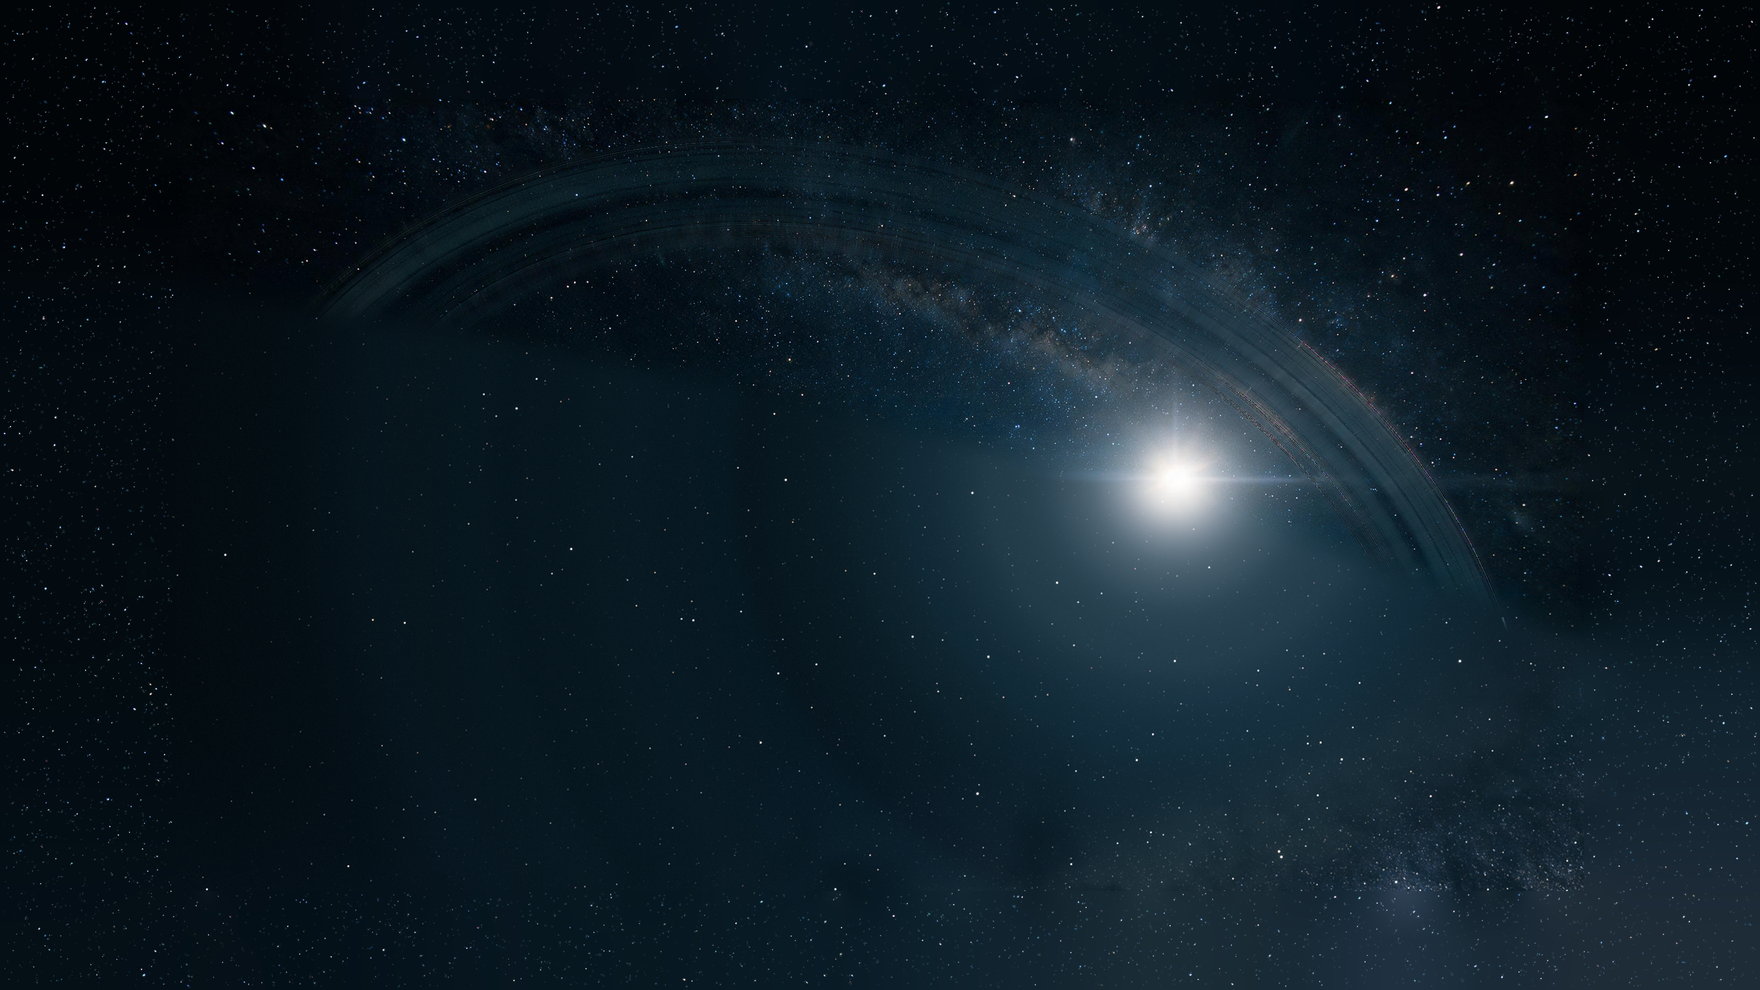
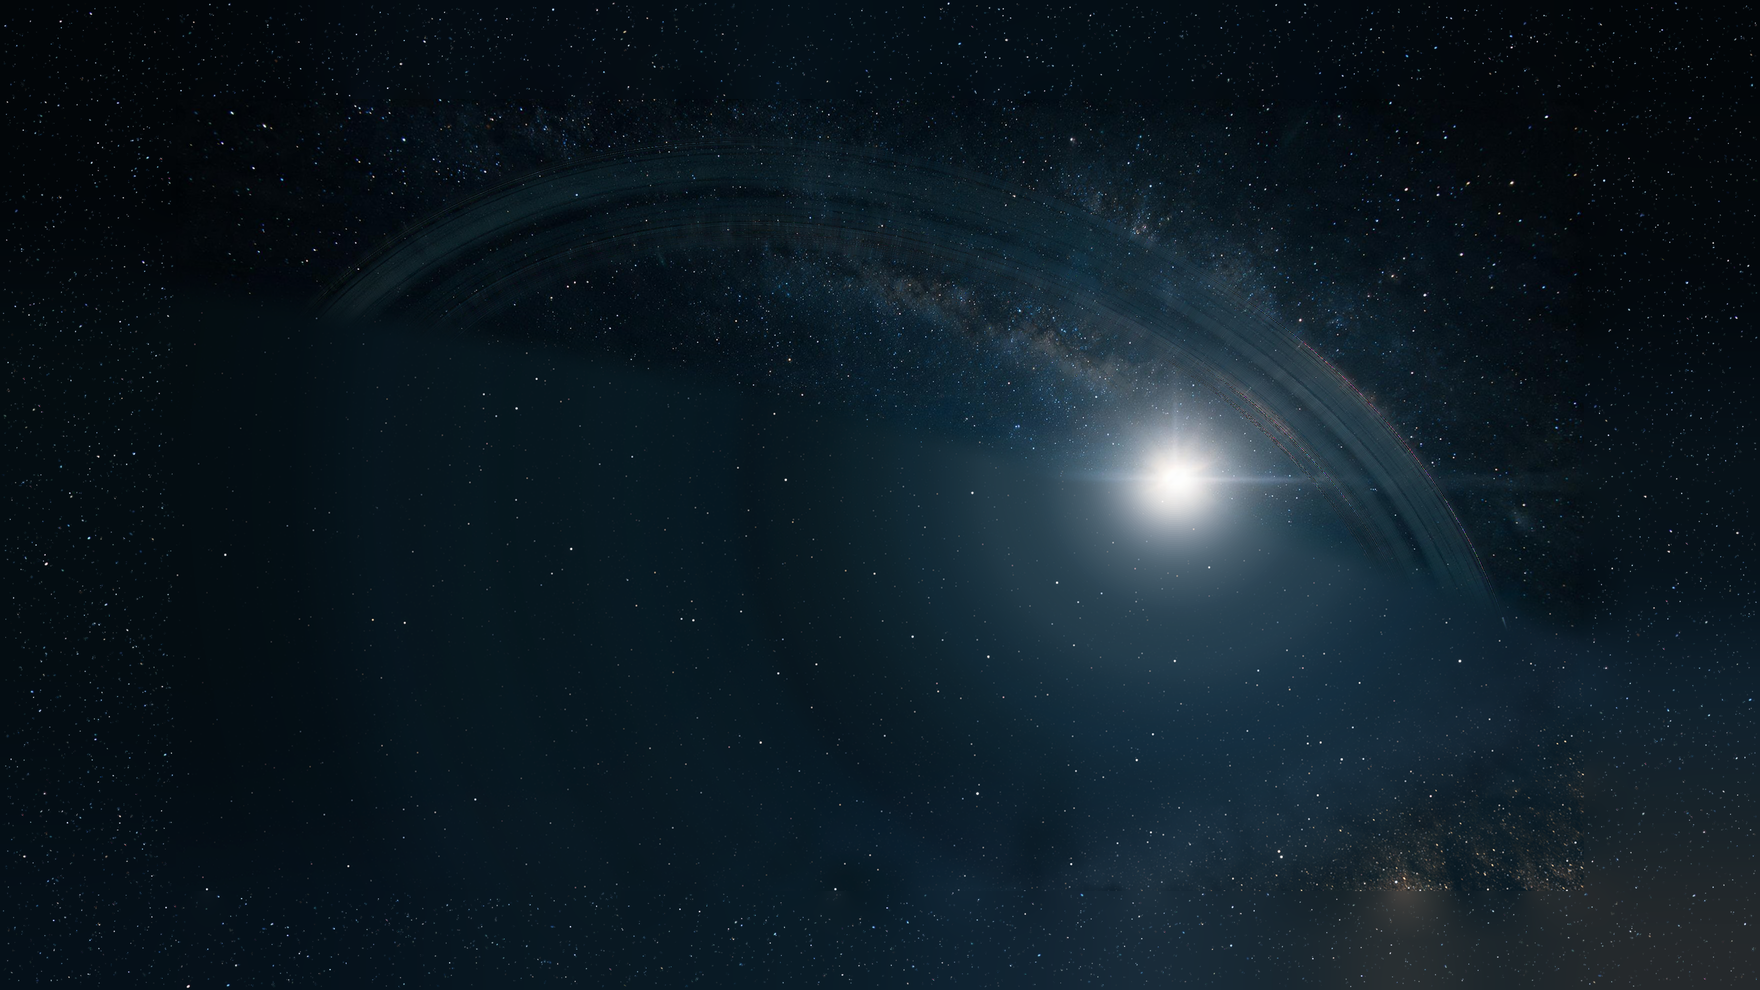
Uranus: the terrain sky is made again without the grain of frame 4290 (MAIL 448)
Both inputs of sky/terrain.sh are rendered with the nograin view; the patch
is rebuilt on the tree with the one place. 1.06 MB smaller.

diff --git a/assets-src/uranus/NOTES.md b/assets-src/uranus/NOTES.md
@@ -2127,3 +2127,18 @@ No answer is needed unless you ask for the later time or see a reason the rule c
 - 180 degrees is "pulling back up its own line" of the engineer's scratch, the one of his four that never dips; no other value was tried.
 - 05:17 chain S on the one place commit c320c4af (main 85f27df2), draft tier: handover dive "Verdict: pass (side difference at T, flow gap at T, every frame)", rise the same line; 87 of the 165 frames differ from chain R2's (the frames with the deck in view), as they should. Finals: 4035 d207daf0f644f9c3d033c8c85632c49237951f679f99304ccb1e0bd0c1ce5e2e (the kept still), 4290 775bbed0c8d1a25c7344c9ccd4550b68a7305aa754337f4468191779c800cd28 (one place changes it at the horizon). Sheets 4158 to 4193 and 4386 to 4421 looked at frame by frame and put to the looks (05:21).
 - 05:22 the bend in the repo on top of one place: tsc exit 0; frame 4290 at the final tier, 16 samples, is 775bbed0c8d1a25c7344c9ccd4550b68a7305aa754337f4468191779c800cd28, the bytes of the one place still. The bend does not touch the judged frame.
+
+### MAIL 534 from the Builder (/root), 05:27 UTC, high, the binding lines word for word
+
+"THE EYE LINE HAS ITS LIMIT (d198, in kit/PROGRESS.md on main 3060b72). `smooth.path.minEye` is 0.87: at the end of each dive and the start of each rise, over 16 film frames either side of the seam at rate 2, the way of the eye over its own height above the ground never falls under 0.87 of the surface view's own (the mean of its 2 film frames next to the seam). It is judged in the path part of `npm run smooth` (harness_builder's 07148aa6, on the machines now with two other commits; main's sha follows when it is taken; until then `npx tsx tools/seam.ts --rate 2` on main gives the same number inside the move to three places). Read on main 5014624, lowest of the whole window. RED: Mars rise 0.351 at 2672, Uranus rise 0.435 at 4382 + 1/2 ..." "Mind the window: it reaches 16 film frames into the surface view, so a bend that buys the seam by slowing the eye later in the surface view is red by the same line. A stop that is red by this line at its named commit goes into its round with it as a severe issue. Nothing else changes: judged frames keep their camera to the byte; the time to name is 07:00 UTC, or 08:30 UTC for a stop that needs the bend".
+
+- 05:26 the sky recipe refused to render ("refusing to start: 2.3 GB free, need 3"): the disk was full of old scratch frames. The script had blanked the two sky files; they were taken back from the index, old scratch trees and old sequences were deleted, and the recipe is run again.
+- Lesson: a test of the engine that draws in a browser (`tests/globe-cap.test.ts`, 5 s limit) fails by its time limit when the tests run beside a render. Run the tests alone.
+
+### The terrain sky without the grain of 4290 (MAIL 448), 05:27 to 05:40 UTC
+
+- `sky/terrain.sh` now matches today's `show` line of `look.ts` (it names only the first three fields) and renders both inputs with `--diag nograin`. Run on the tree with the one place and the bend: `glow.png` 61.6 s, `sky.png` 23.5 s (review tier, 11 samples), then `sky/terrain.py` (95 s): "margin stars 8249 from 4367 stamps", "sky level p50 above 200 px 0.015921954 one sky p50 0.0042159823 line energy 48974.9453125".
+- The files: full 4172122 to 3296116 bytes, web 1271696 to 1084862 bytes (1.06 MB less in all; a patch without grain packs smaller).
+- New patch against the old one (full): the fine difference is the grain that is gone; behind a blur of 8 px the new one lies 0.67 to 0.85 of a level higher above the horizon. The cause: the old glow input was near black in the dark sky and its grain was cut off at black, so its mean stood higher by that much and the patch (image minus glow) lower. Far under the horizon (rows from 1485 of 1980) the patch is the film's one sky, which is today's and no longer that of Nov 21: never in view while the deck is drawn.
+- (a) frame 4290 at the final tier, new patch (`out/work/u/one/sky-4290.png`, sha256 db00a41836d85a21c1cb9e2bb6ee81982535bbcde45d022e37af959d0ece1c1e) against the one place still with the old patch (775bbed0...): the deck is equal (rows 810 to 1079 largest 1 level, mean 0.000); dark sky (level under 24, 0.378 of the frame) mean 0.658, largest 5, the new one 0.43 to 0.47 of a level higher in the mean; behind a blur of 6 px the largest difference is 2.75 levels, in 3493 pixels at the right edge over the horizon (x 1820 to 1919, y 711 to 763); 15 pixels over 12 levels (largest 93), all in x 1893 to 1918, y 766 to 804: stars of the film's one sky in the strip over the horizon where the patch takes the one sky. Against the kept still: differ 0.379 of the pixels, mean 0.557, largest 93 (one place alone: 0.0202, 0.073, 53).
+- (b) `python3 /tmp/graincorr.py 4290 out/work/u/one/sky-4290-nograin.png` (final tier, nograin): "frame 4290.0 out/work/u/one/sky-4290-nograin.png: dark sky +0.001 (share 0.17), whole -0.000, blocks -0.009 to +0.010". It was -0.152 with the strongest block -0.100 (sky_builder).

diff --git a/assets-src/uranus/RECIPE.md b/assets-src/uranus/RECIPE.md
@@ -150,7 +150,7 @@ Input made once for several assets: `out/work/u/hero-2x.png`, the approved hero 
 ## sky-terrain.webp
 
 - Output: `sky-terrain.webp`, lossless, 3520 x 1980 full and 1760 x 990 web: the sky of the close image for the terrain view.
-- Tool: `bash assets-src/uranus/sky/terrain.sh` (renders the film's own glow on a black sky to `out/work/u/sky/t/glow.png` and the one sky alone to `out/work/u/sky/t/sky.png`, then restores the stop files), then `python3 assets-src/uranus/sky/terrain.py references/approved/uranus-close.jpg out/work/u/sky/t/glow.png out/work/u/sky/t/sky.png public/assets/uranus`. No model, no prompt.
+- Tool: `bash assets-src/uranus/sky/terrain.sh` (renders the film's own glow on a black sky to `out/work/u/sky/t/glow.png` and the one sky alone to `out/work/u/sky/t/sky.png`, both at frame 4290 with `--diag nograin` so that the patch carries no grain of that frame, then restores the stop files; made again on 2026-11-24 on the tree with the one place), then `python3 assets-src/uranus/sky/terrain.py references/approved/uranus-close.jpg out/work/u/sky/t/glow.png out/work/u/sky/t/sky.png public/assets/uranus`. No model, no prompt.
 - What it does: close image minus the film's glow in scene values; the thin ring lines are removed in the unwrap of the fitted ring plane (thin part across radius, coherent along the ring); from 12 to 46 px above the fitted horizon upward the image's sky is kept, below that the one sky plus the image's veil round the Sun; a margin of 12.5 percent on every side that is not a reflection: the star free floor of the edge rows and columns is carried outward with a blur that grows with distance (`SPREAD`), and stars are placed by a seeded generator (`scatter()`, `STAR`) as stamps cut from the picture's own stars at the picture's own density. The inner 2816 x 1584 pixels are the same bytes as before the margin was rebuilt (round 1, minor: mirror repeated stars along the top and right margins).
 - Checks: the compare above; `check/arcs.py`; `python3 tools/assets/mirrorcheck.py public/assets/uranus/full/sky-terrain.webp` reports no seam on the margin lines (x 352 and 3168, y 198 and 1782 were at correlation 1.00 before); what it still lists are interior lines round the Sun and the limb that the picture itself has.
 
